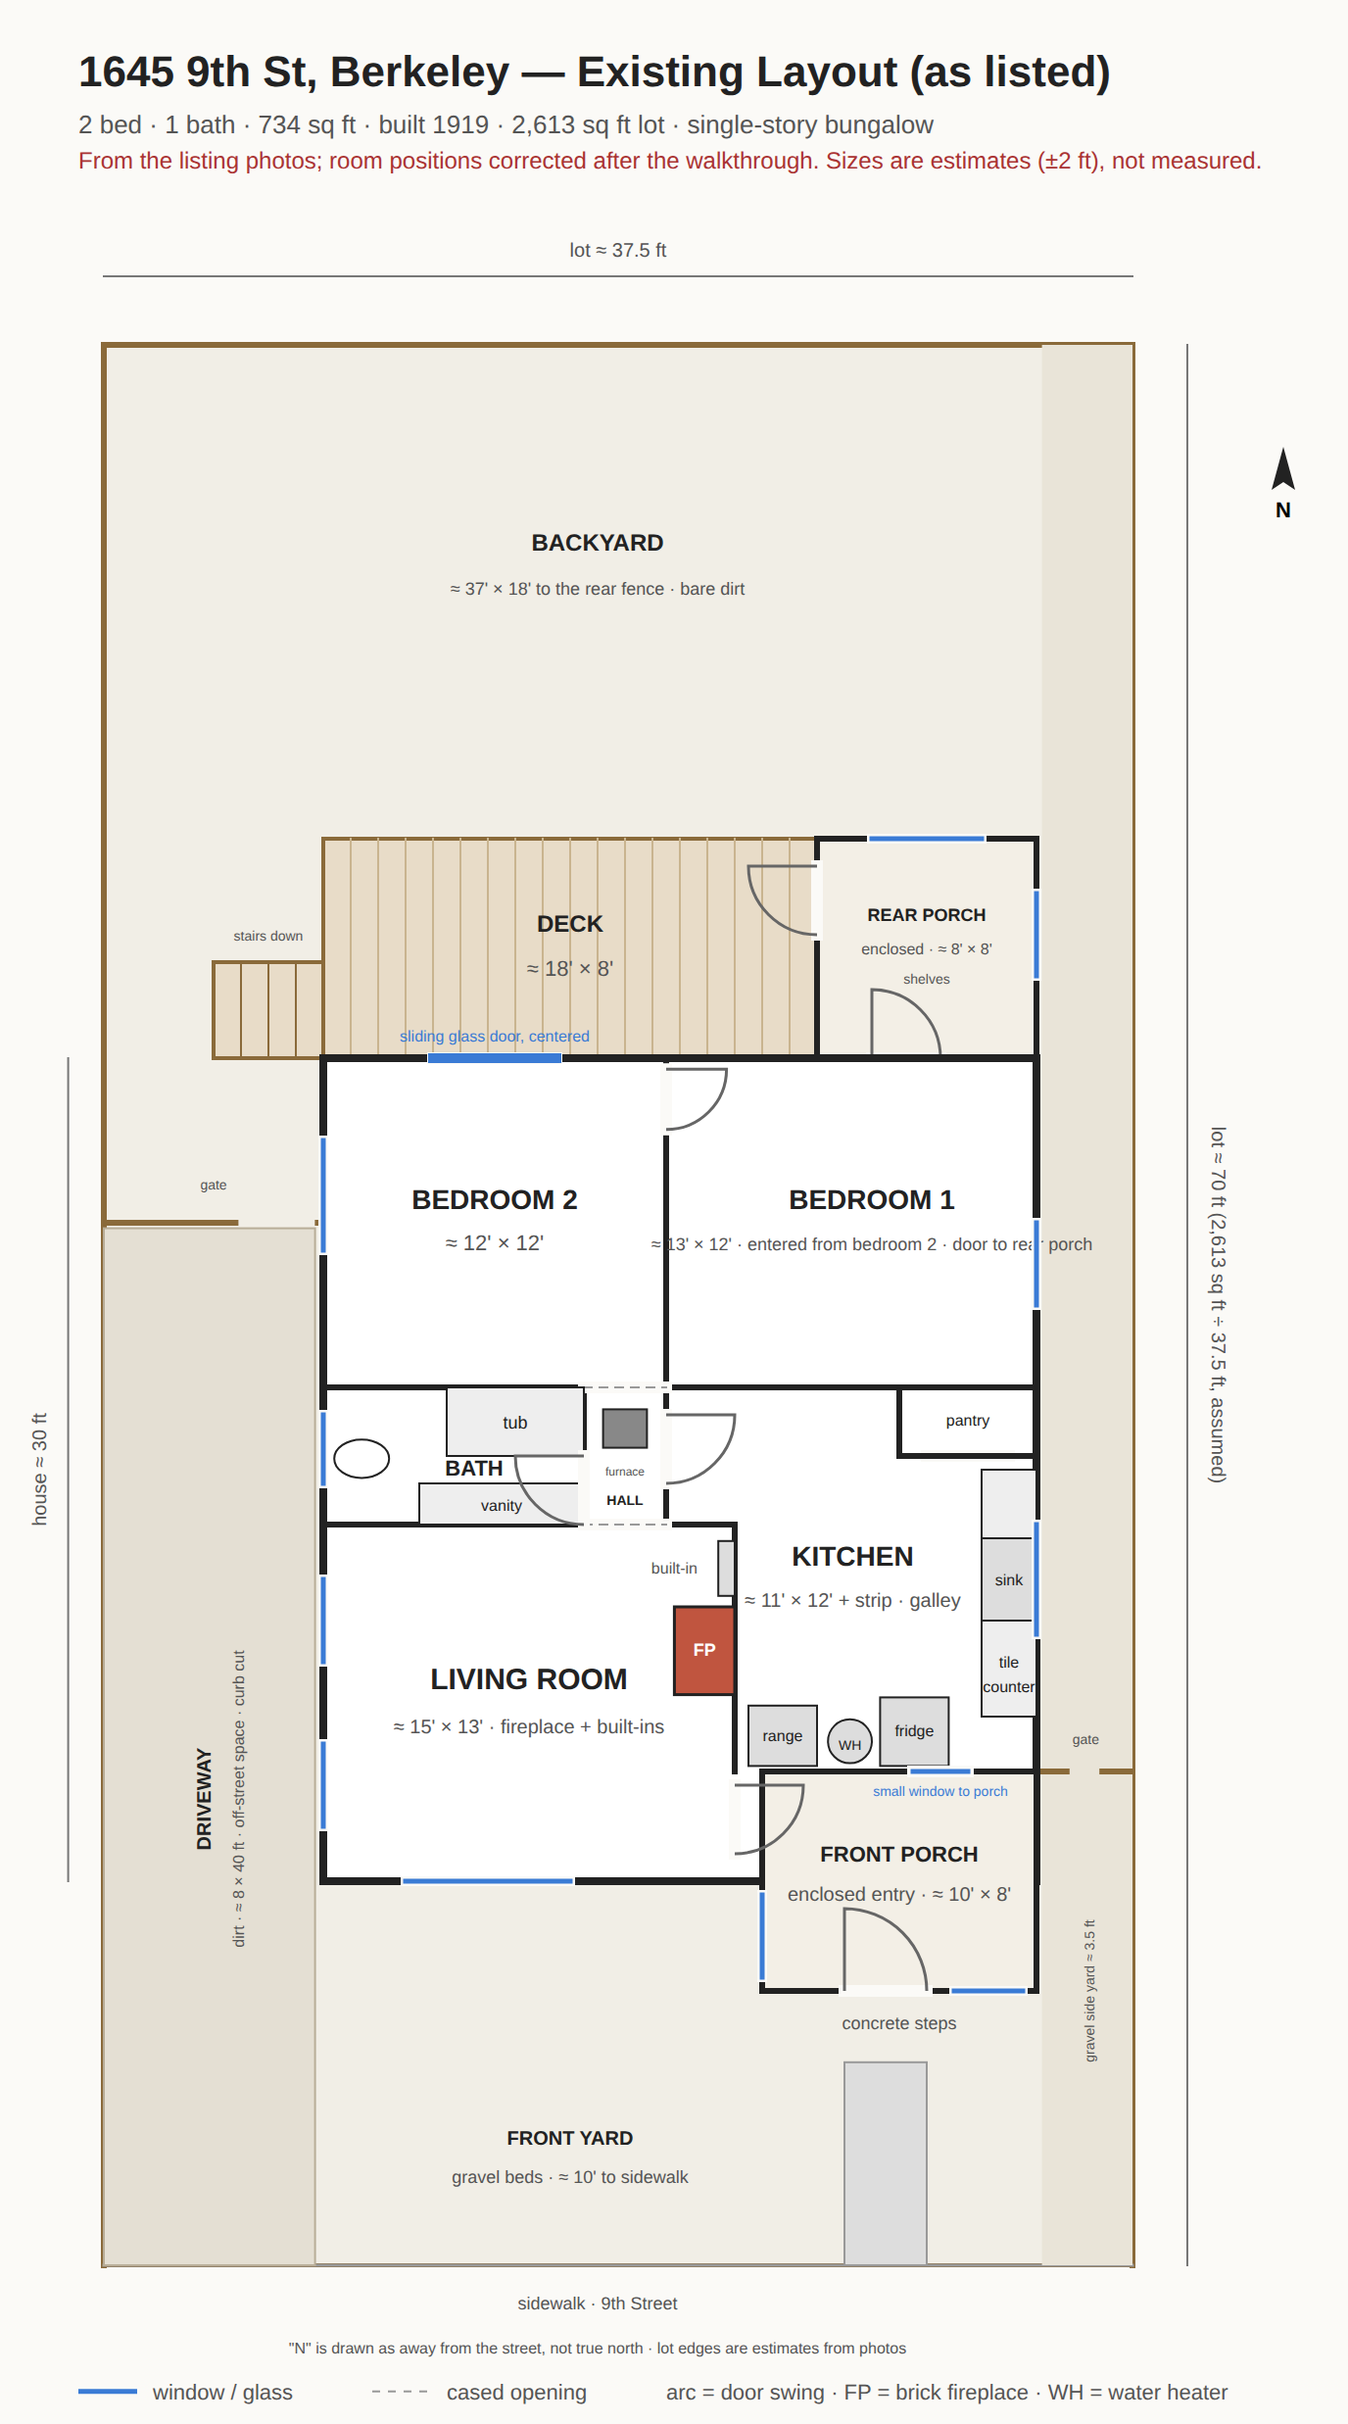
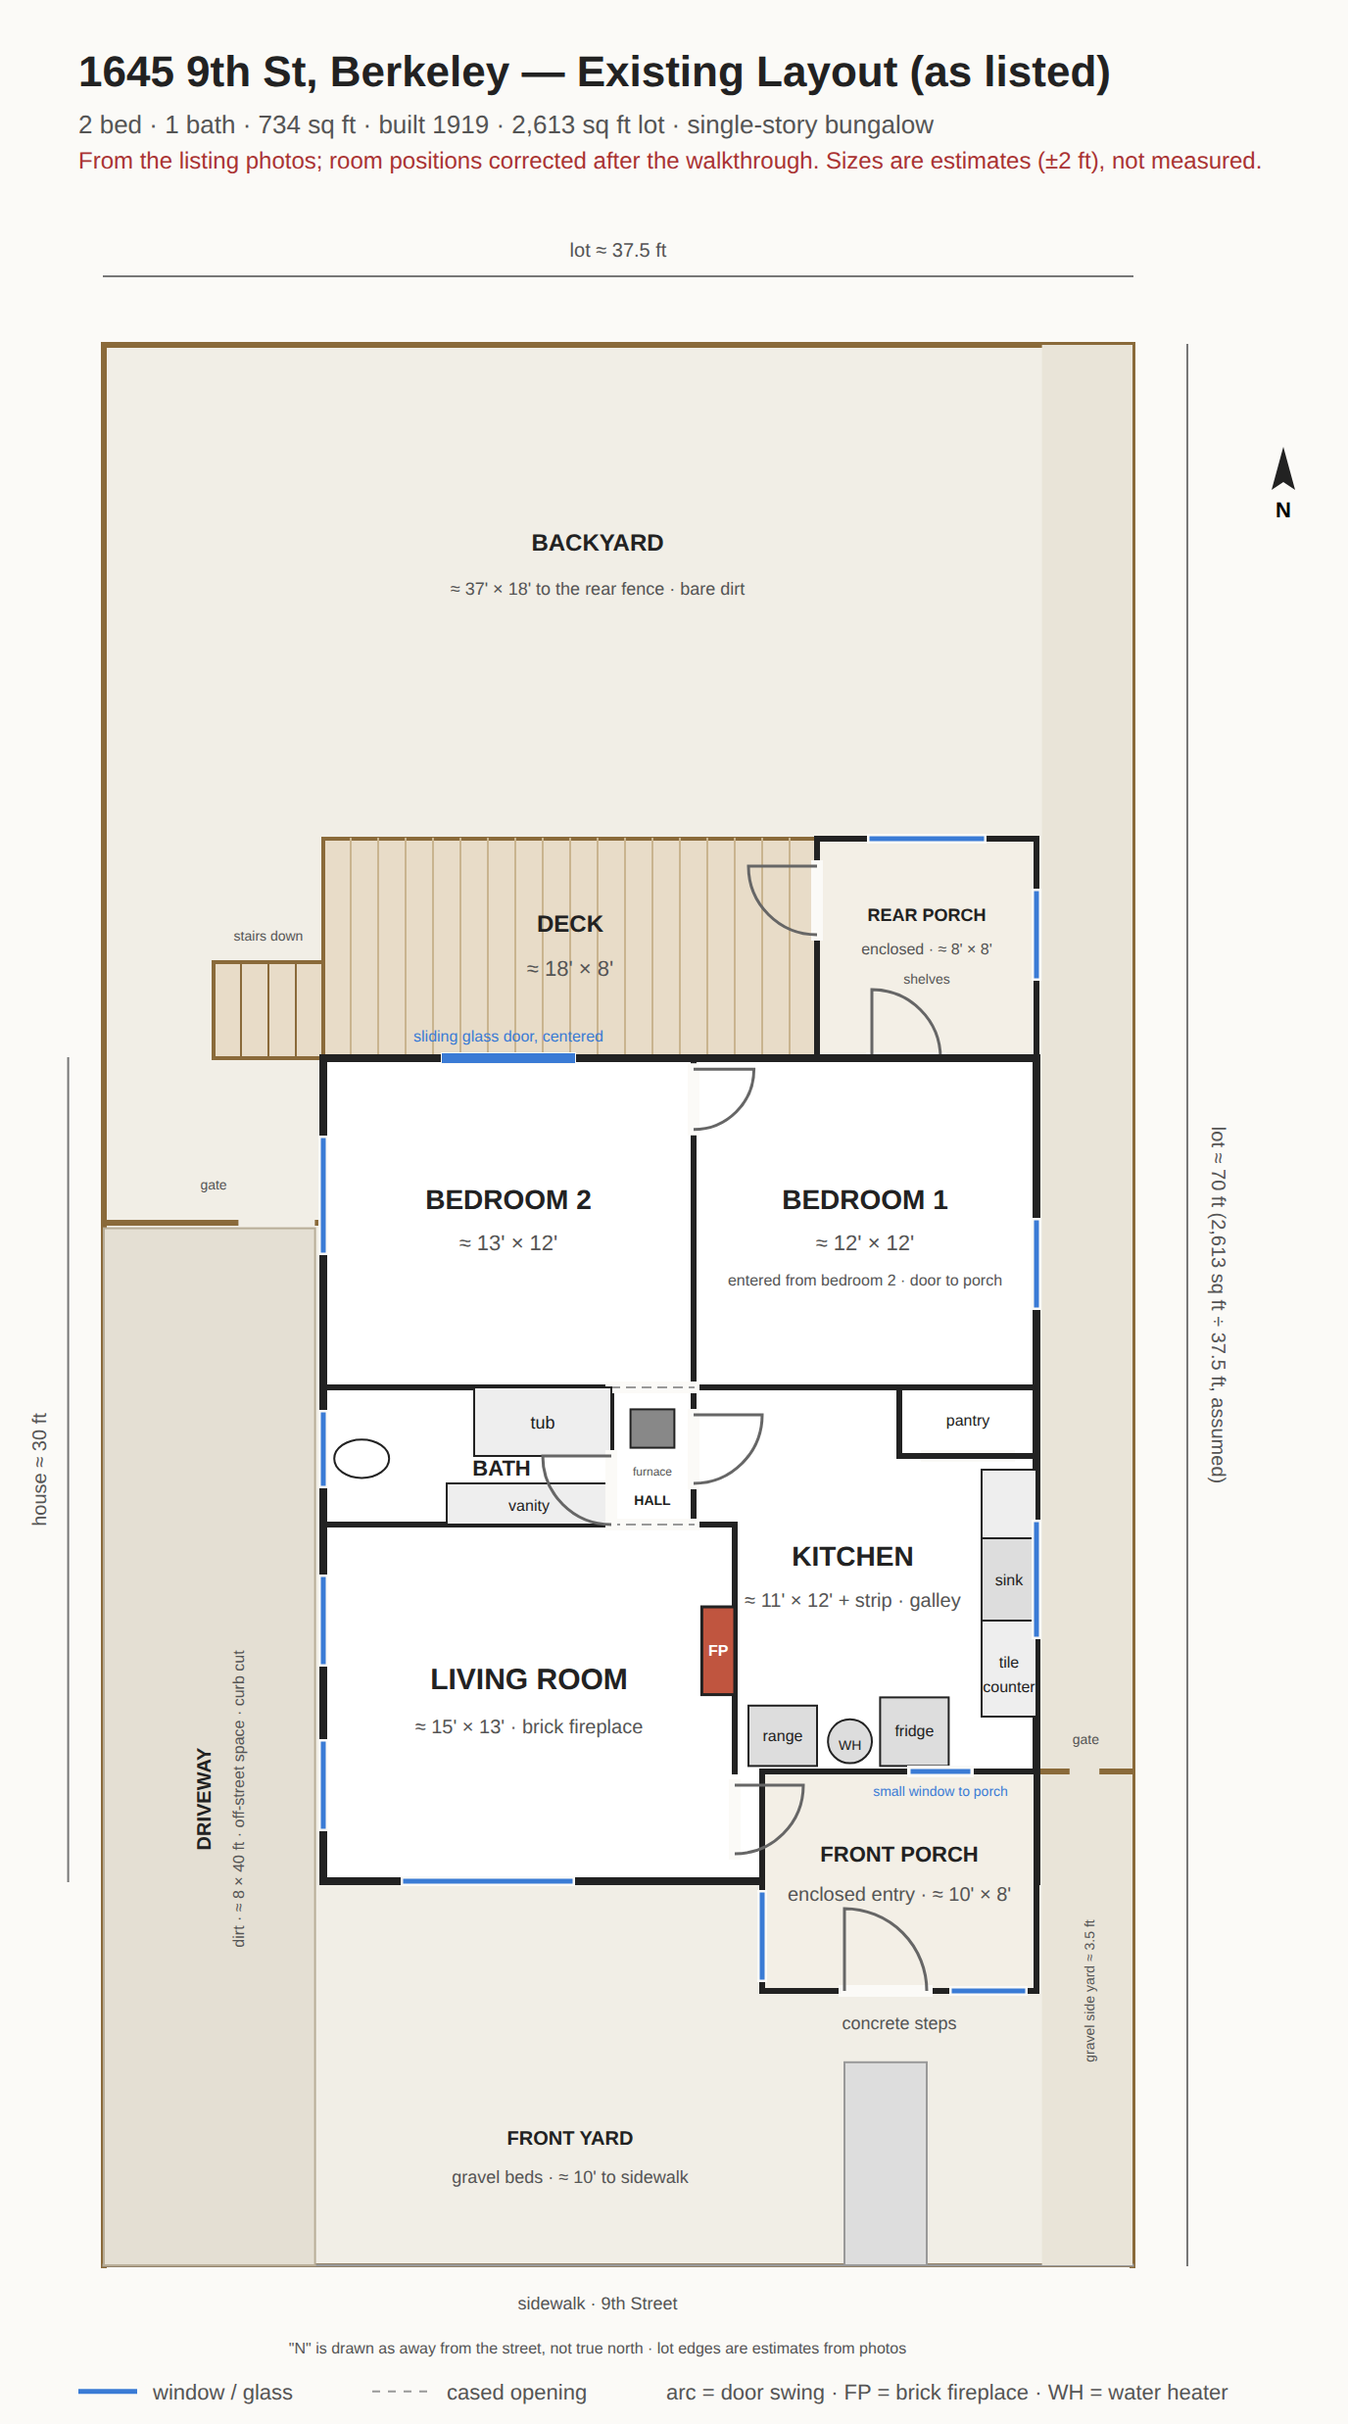
Drop the built-in, shallower fireplace, rear-left room a little wider than rear-right
Partition and hall east wall move to 13.5 ft; the jog to the fireplace
wall shrinks to 1.5 ft. Bath is 10.5 long. Rear-left ≈13×12, rear-right ≈12×12.

Claude-Session: https://claude.ai/code/session_01QP4ZkLkW7cUrZ9x3HXMY7H

diff --git a/index.html b/index.html
@@ -38,8 +38,8 @@ table{border-collapse:collapse;font-size:14px}td,th{padding:4px 12px 4px 0;text-
 <div class="notes">
 <strong>Proposed changes</strong>
 <ul>
-<li><strong>Kitchen moves to the rear-left room with the slider</strong> so it opens directly onto the deck. Becomes an eat-in kitchen, roughly 12 × 12, sharing a wet wall with the bath. Sink and range on the west wall; the existing corner door to the back room stays.</li>
-<li><strong>Old kitchen (front-right, roughly 11 × 12) becomes bedroom 1.</strong> Its strip beside the hall becomes its entry. Bedroom 2 keeps its existing corner door from the rear-left room, which becomes the kitchen. The rear-right bedroom stays a bedroom, becomes bedroom 2, roughly 13 × 12. Neither bedroom has a closet. Floor furnace comes out; mini-splits instead.</li>
+<li><strong>Kitchen moves to the rear-left room with the slider</strong> so it opens directly onto the deck. Becomes an eat-in kitchen, roughly 13 × 12, sharing a wet wall with the bath. Sink and range on the west wall; the existing corner door to the back room stays.</li>
+<li><strong>Old kitchen (front-right, roughly 11 × 12) becomes bedroom 1.</strong> Its strip beside the hall becomes its entry. Bedroom 2 keeps its existing corner door from the rear-left room, which becomes the kitchen. The rear-right bedroom stays a bedroom, becomes bedroom 2, roughly 12 × 12. Neither bedroom has a closet. Floor furnace comes out; mini-splits instead.</li>
 <li><strong>Rear porch becomes laundry / mudroom</strong>, roughly 8 × 8, entered from bedroom 2 and from the deck. Washer, dryer and water heater go in it.</li>
 <li>Living room, bath, hall, and front porch unchanged in this pass.</li>
 </ul>

diff --git a/floor-plan/generate.py b/floor-plan/generate.py
@@ -85,30 +85,29 @@ def build(variant):
     door(19,34,3,'n'); window(16,30.5,16,33.5); window(23,34,25.5,34)
     label(21,35.4,"concrete steps",9,False,"#555")
     # interior walls
-    line(12.5,0,12.5,12); line(12.5,12,26,12)   # partition between the rear rooms, in line with the hall's east wall (Keith)
-    line(0,12,9.5,12); line(9.5,12,9.5,17)      # bath: 0-9.5 × 12-17
-    line(12.5,12,12.5,17)                        # hall's east wall = kitchen's west wall
-    line(0,17,9.5,17); line(12.5,17,15,17)       # living room north wall, with the hall opening between
-    opening(9.5,17,12.5,17); opening(9.5,12,12.5,12)   # hall: straight, cased both ends, living room -> rear-left room (photo 09)
+    line(13.5,0,13.5,12); line(13.5,12,26,12)   # partition between the rear rooms, in line with the hall's east wall; rear-left a little wider than rear-right (Keith)
+    line(0,12,10.5,12); line(10.5,12,10.5,17)   # bath: 0-10.5 × 12-17
+    line(13.5,12,13.5,17)                        # hall's east wall = kitchen's west wall
+    line(0,17,10.5,17); line(13.5,17,15,17)      # living room north wall, with the hall opening between
+    opening(10.5,17,13.5,17); opening(10.5,12,13.5,12)   # hall: straight, cased both ends, living room -> rear-left room (photo 09)
     line(15,17,15,26)                            # fireplace wall
-    door(12.5,0.4,2.2,'e')                                # rear-left room -> rear-right room, in the rear corner: the rear-right room's only entrance (Keith)
+    door(13.5,0.4,2.2,'e')                                # rear-left room -> rear-right room, in the rear corner: the rear-right room's only entrance (Keith)
     # fireplace / built-in on the living room's east wall (photo 07): built-in, fireplace, porch door
-    rect(12.8,20,15,23.2,fill="#c0553f",stroke="#222",sw=1.5); label(13.9,21.8,"FP",9,True,"#fff")
-    rect(14.4,17.6,15,19.6,fill="#ddd",stroke="#222",sw=1); label(12.8,18.8,"built-in",8,False,"#555")
+    rect(13.8,20,15,23.2,fill="#c0553f",stroke="#222",sw=1.5); label(14.4,21.8,"FP",8,True,"#fff")
     # bath (photos 13, 14): from the east-end door, vanity left (south wall), tub right (north wall, end at the door), toilet under the west window
-    rect(4.5,12,9.5,14.5,fill="#eee",stroke="#222",sw=1); label(7,13.5,"tub",9,False)
-    rect(3.5,15.5,9.5,17,fill="#eee",stroke="#222",sw=1); label(6.5,16.5,"vanity",8,False)
+    rect(5.5,12,10.5,14.5,fill="#eee",stroke="#222",sw=1); label(8,13.5,"tub",9,False)
+    rect(4.5,15.5,10.5,17,fill="#eee",stroke="#222",sw=1); label(7.5,16.5,"vanity",8,False)
     e=P(1.4,14.6); out.append(f'<ellipse cx="{e[0]}" cy="{e[1]}" rx="{1*S}" ry="{0.7*S}" fill="#fff" stroke="#222" stroke-width="1"/>')
-    label(5.5,15.2,"BATH",11)
-    door(9.5,14.5,2.5,'w')                                # bath door, off the hall
+    label(6.5,15.2,"BATH",11)
+    door(10.5,14.5,2.5,'w')                                # bath door, off the hall
     if not proposed:
-        rect(10.2,12.8,11.8,14.2,fill="#888",stroke="#222",sw=1); label(11,15.2,"furnace",6,False,"#555")   # floor furnace grate in the hall (photos 09, 12, 14, 20)
-        label(11,16.3,"HALL",7)
-        door(12.5,13,2.5,'e')                               # hall -> kitchen (photos 12, 14)
+        rect(11.2,12.8,12.8,14.2,fill="#888",stroke="#222",sw=1); label(12,15.2,"furnace",6,False,"#555")   # floor furnace grate in the hall (photos 09, 12, 14, 20)
+        label(12,16.3,"HALL",7)
+        door(13.5,13,2.5,'e')                               # hall -> kitchen (photos 12, 14)
         # existing: bedroom 2 rear-left, bedroom 1 rear-right, kitchen front-right (L-shaped: the strip beside the hall plus the room behind the porch)
-        line(4,0,8.5,0,stroke="#fbfaf7",sw=6); line(4,0,8.5,0,stroke="#3a7bd5",sw=5); label(6.25,-0.6,"sliding glass door, centered",8,False,"#3a7bd5")
-        label(6.25,5.5,"BEDROOM 2",14); label(6.25,7,"≈ 12' × 12'",11,False,"#555")
-        label(20,5.5,"BEDROOM 1",14); label(20,7,"≈ 13' × 12' · entered from bedroom 2 · door to rear porch",9,False,"#555")
+        line(4.5,0,9,0,stroke="#fbfaf7",sw=6); line(4.5,0,9,0,stroke="#3a7bd5",sw=5); label(6.75,-0.6,"sliding glass door, centered",8,False,"#3a7bd5")
+        label(6.75,5.5,"BEDROOM 2",14); label(6.75,7,"≈ 13' × 12'",11,False,"#555")
+        label(19.75,5.5,"BEDROOM 1",14); label(19.75,7,"≈ 12' × 12'",11,False,"#555"); label(19.75,8.3,"entered from bedroom 2 · door to porch",8,False,"#555")
         # kitchen (photos 08, 10, 12): tile counter and sink under the east window, range + WH + small window on the porch wall, fridge beside, pantry shelves at the north end
         rect(24,15,26,24,fill="#eee",stroke="#222",sw=1); label(25,22.2,"tile",8,False); label(25,23.1,"counter",8,False)
         rect(24,17.5,26,20.5,fill="#ddd",stroke="#222",sw=1); label(25,19.2,"sink",8,False)
@@ -118,24 +117,24 @@ def build(variant):
         line(21.5,26,23.5,26,stroke="#fbfaf7",sw=6); line(21.5,26,23.5,26,stroke="#3a7bd5",sw=2.5); label(22.5,26.9,"small window to porch",7,False,"#3a7bd5")
         label(19.3,18.5,"KITCHEN",14); label(19.3,20,"≈ 11' × 12' + strip · galley",10,False,"#555"); label(23.5,13.4,"pantry",8,False)
     else:
-        label(11,15.6,"HALL",7)
+        label(12,15.6,"HALL",7)
         # the old kitchen's strip beside the hall is bedroom 1's entry; the old kitchen door is the opening
-        opening(12.5,13,12.5,15.5); door(15,13,2.5,'e')
+        opening(13.5,13,13.5,15.5); door(15,13,2.5,'e')
         # kitchen rear-left (eat-in, opens to the deck); its old corner door into the closet gets closed
-        line(4,0,8.5,0,stroke="#fbfaf7",sw=6); line(4,0,8.5,0,stroke="#3a7bd5",sw=5); label(6.25,-0.6,"sliding / French door to deck",8,False,"#3a7bd5")
+        line(4.5,0,9,0,stroke="#fbfaf7",sw=6); line(4.5,0,9,0,stroke="#3a7bd5",sw=5); label(6.75,-0.6,"sliding / French door to deck",8,False,"#3a7bd5")
         rect(0.2,1.5,2,11.8,fill="#eee",stroke="#222",sw=1); label(1.1,3.4,"counter",7,False)
         rect(0.2,4.5,2,7,fill="#ddd",stroke="#222",sw=1); label(1.1,5.9,"sink",7,False)
         rect(0.2,8,2.2,10.5,fill="#ddd",stroke="#222",sw=1); label(1.2,9.4,"range",7,False)
         rect(3,9.5,5.5,11.8,fill="#ddd",stroke="#222",sw=1); label(4.25,10.8,"fridge",8,False)
-        rect(4.5,2.5,9.5,5.5,fill="#f4e9d0",stroke="#8a6a3a",sw=1); label(7,4.3,"table / island",8,False,"#555")
-        label(7.2,7.6,"KITCHEN (eat-in)",14); label(7.2,9,"≈ 12' × 12' · opens to deck",10,False,"#555")
-        label(20,6,"BEDROOM 2",13); label(20,7.4,"≈ 13' × 12' · door to mudroom · no closet",9,False,"#555")
+        rect(5,2.5,10,5.5,fill="#f4e9d0",stroke="#8a6a3a",sw=1); label(7.5,4.3,"table / island",8,False,"#555")
+        label(7.5,7.6,"KITCHEN (eat-in)",14); label(7.5,9,"≈ 13' × 12' · opens to deck",10,False,"#555")
+        label(19.75,6,"BEDROOM 2",13); label(19.75,7.4,"≈ 12' × 12' · door to mudroom · no closet",9,False,"#555")
         label(19.3,18.5,"BEDROOM 1",14); label(19.3,20,"≈ 11' × 12' · former kitchen · no closet",10,False,"#555"); label(23.5,13.4,"old pantry",8,False)
     # shared: doors, windows, labels
     opening(22,14.5,25,14.5); door(15,26.5,2.5,'e')
     line(21,12,21,14.5); line(21,14.5,26,14.5)   # pantry / closet nook
     window(0,3,0,7); window(0,13,0,15.5); window(0,19,0,22); window(0,25,0,28); window(3,30,9,30); window(26,17,26,21); window(26,6,26,9)
-    label(7.5,23,"LIVING ROOM",15); label(7.5,24.6,"≈ 15' × 13' · fireplace + built-ins",10,False,"#555")
+    label(7.5,23,"LIVING ROOM",15); label(7.5,24.6,"≈ 15' × 13' · brick fireplace",10,False,"#555")
     # dims / north / street / legend
     line(-9.3,0,-9.3,30,stroke="#777",sw=1); p=P(-10.1,15)
     out.append(f'<text transform="translate({p[0]},{p[1]}) rotate(-90)" font-size="10" text-anchor="middle" fill="#555">house ≈ 30 ft</text>')

diff --git a/CLAUDE.md b/CLAUDE.md
@@ -45,12 +45,12 @@ The existing plan was reconstructed from the listing photos and Keith's walkthro
 
 Layout as drawn (Sept 10 revision, from all 21 photos and Keith's notes):
 
-- **Living room** front-left, ≈15×13. East wall, north to south: built-in, brick fireplace (flush on the far side), door to the enclosed front porch. A cased opening at the east end of its north wall is the start of the hall.
+- **Living room** front-left, ≈15×13. East wall, north to south: shallow brick fireplace (flush on the far side), door to the enclosed front porch. A cased opening at the east end of its north wall is the start of the hall.
 - **Hall**: a straight 3 ft corridor from the living room north into the rear-left room, cased at both ends. Bath door on its west side, kitchen door on its east side, the red-tagged floor furnace grate in its floor (photos 09, 12, 14, 20).
-- **Bath** ≈9.5×5 on the west of the hall: door at the east end; from it, vanity on the south wall, tub on the north wall with its end at the door, toilet under the west window.
-- **Kitchen** front-right, L-shaped: the ≈11×12 room behind the porch plus the ≈2.5×5 strip east of the hall. Tile counter and sink under the east window, range and water heater on the porch wall with a small high window into the porch, fridge beside them, pantry nook at the north end. No door into bedroom 1.
-- **Bedroom 2** rear-left, ≈12×12: slider centered on the back wall onto the deck, window on the west wall, no closet. Its rear-east corner door is the only way into bedroom 1.
-- **Bedroom 1** rear-right, ≈13×12: entered only through bedroom 2's corner door; door into the rear porch, east window, no closet. The partition between the rear rooms lines up with the hall's east wall.
+- **Bath** ≈10.5×5 on the west of the hall: door at the east end; from it, vanity on the south wall, tub on the north wall with its end at the door, toilet under the west window.
+- **Kitchen** front-right, L-shaped: the ≈11×12 room behind the porch plus the ≈1.5×5 strip east of the hall. Tile counter and sink under the east window, range and water heater on the porch wall with a small high window into the porch, fridge beside them, pantry nook at the north end. No door into bedroom 1.
+- **Bedroom 2** rear-left, ≈13×12: slider centered on the back wall onto the deck, window on the west wall, no closet. Its rear-east corner door is the only way into bedroom 1.
+- **Bedroom 1** rear-right, ≈12×12: entered only through bedroom 2's corner door; door into the rear porch, east window, no closet. The partition between the rear rooms lines up with the hall's east wall; the rear-left room is a little wider than the rear-right one.
 - **Rear porch** ≈8×8, enclosed, narrow, on the east end of the back wall, flush with the deck edge; shelves, plywood floor, small high window, door to the deck.
 - **Deck** ≈18×8 from the west edge of the house to the porch, so it runs past bedroom 2 and along part of bedroom 1's back wall; stairs off its west end drop into the side yard in line with the back wall.
 
@@ -58,9 +58,9 @@ The lot is drawn from photos 01, 03, 05 and 21 and the listed 2,613 sq ft: about
 
 ### Proposed changes (as of Sept 9, 2026)
 
-1. **Kitchen moves to the rear-left room with the slider** so it opens directly onto the deck (eat-in, ≈12×12). Reason: don't want to walk through a bedroom to reach the yard. The new kitchen shares its south wall with the bathroom, so the wet wall is shared.
+1. **Kitchen moves to the rear-left room with the slider** so it opens directly onto the deck (eat-in, ≈13×12). Reason: don't want to walk through a bedroom to reach the yard. The new kitchen shares its south wall with the bathroom, so the wet wall is shared.
 2. **Old kitchen (front-right, ≈11×12) becomes bedroom 1.** Its strip beside the hall becomes its entry vestibule, through the old kitchen door. No door between the bedrooms. Its plumbing gets abandoned.
-3. **Rear-right bedroom stays a bedroom** and becomes bedroom 2 (≈13×12). It keeps its door into the rear porch and is entered through its existing corner door from the new kitchen. Neither bedroom has a closet; both need one.
+3. **Rear-right bedroom stays a bedroom** and becomes bedroom 2 (≈12×12). It keeps its door into the rear porch and is entered through its existing corner door from the new kitchen. Neither bedroom has a closet; both need one.
 4. **Rear porch becomes laundry / mudroom** (≈8×8), reached from bedroom 2 and from the deck; washer, dryer and water heater in it.
 5. Living room, bath, hall, front porch unchanged. Floor furnace comes out; mini-splits.
 
